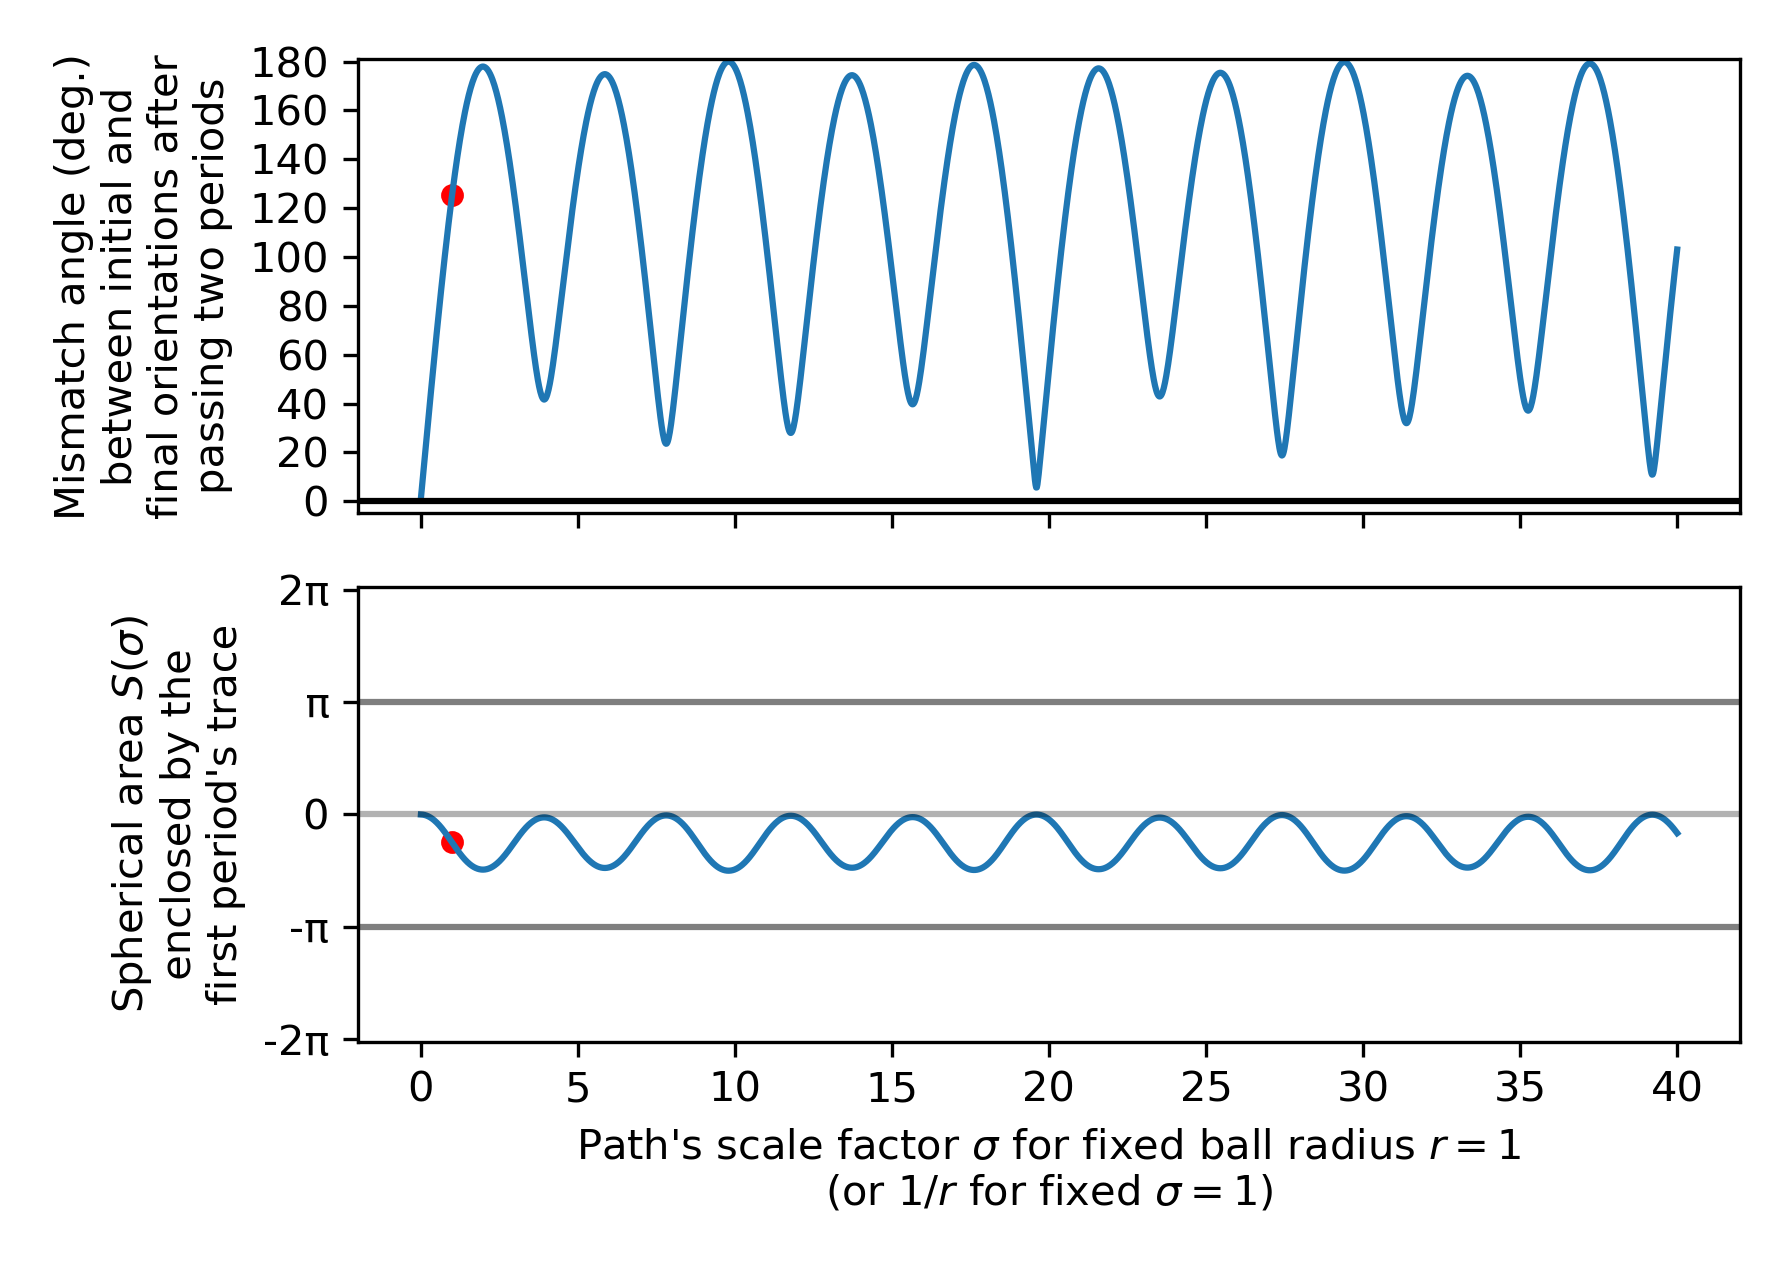
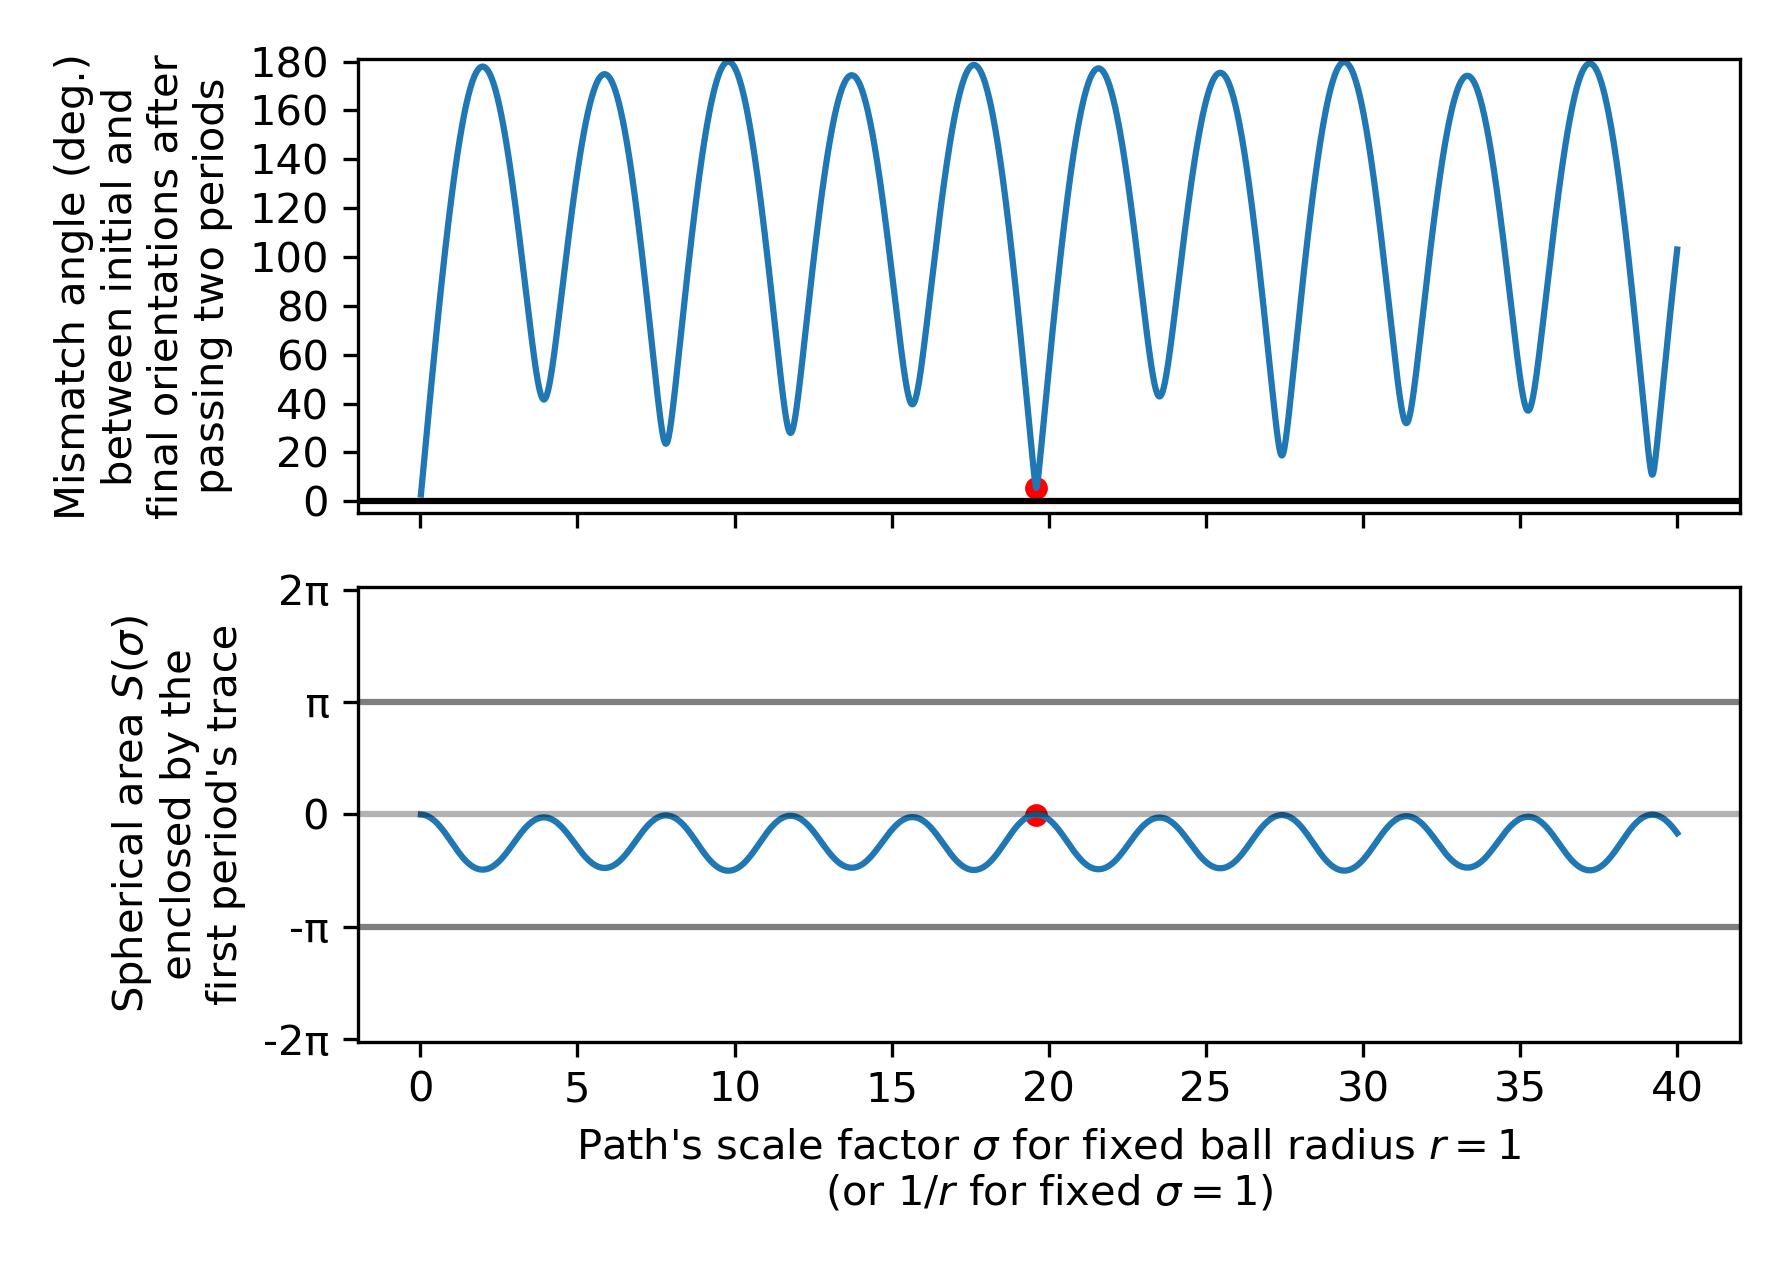
Refactor. Make plots for SI figures. Plot areas for penannular proof.

Changed region(s): [[0.5546, 0.3671, 0.5854, 0.3976], [0.2465, 0.6424, 0.2773, 0.6729], [0.2465, 0.1529, 0.2773, 0.1835]]

diff --git a/existence-testing.py b/existence-testing.py
@@ -284,9 +284,73 @@ def make_zigzag_kinked_asymm(zigzag_edge_length_without_kink=np.pi / 2,
     input_path[:, 1] = input_path[:, 1] - input_path[0, 1]
     return input_path, np.array(tips)
 
-def make_zigzag_with_smoothed_corner(zigzag_edge_length_without_kink=np.pi / 2,
+def add_arc(center, start_angle, end_angle, radius, npoints):
+    angles = np.linspace(start_angle, end_angle, npoints)
+    xs = radius * np.cos(angles)
+    ys = radius * np.sin(angles)
+    return center + np.stack((xs, ys)).T
+
+def make_zigzag_with_smoothed_corner(zigzag_edge_length_without_smoothing=np.pi / 2,
                         zigzag_corner_angle=np.pi / 4,
-                        radius_of_curvature=np.pi / 10):
+                        radius_of_curvature=0.02,
+                                     Ns=3, halfarc_segments_number=15):
+    '''Makes an zigzag whose corners are smoothed by a given radius of curvature.
+    It consists of two straight lines and three arcs.'''
+
+    # add first flat arc segment
+    arc_angle_span = np.pi/2 - zigzag_corner_angle/2
+    center = np.array([0,
+                       -1 * radius_of_curvature / np.cos(arc_angle_span)])
+    input_path = add_arc(center, start_angle=np.pi/2, end_angle=np.pi/2 - arc_angle_span,
+                         radius=radius_of_curvature, npoints=halfarc_segments_number)
+
+    # add first straight segment
+    length_of_straight_segment = zigzag_edge_length_without_smoothing - 2 * radius_of_curvature * np.tan(arc_angle_span)
+    startpoint = input_path[-1, :]
+    new_section = add_interval(startpoint, angle=-1 * (np.pi / 2 - zigzag_corner_angle / 2),
+                               length=length_of_straight_segment, Ns=Ns)
+    input_path = np.concatenate((input_path, new_section[1:]), axis=0)
+
+    # Add middle arc
+    center = np.array([zigzag_edge_length_without_smoothing * np.sin(zigzag_corner_angle / 2),
+                       -1 * zigzag_edge_length_without_smoothing * np.cos(zigzag_corner_angle / 2) +
+                                                                        radius_of_curvature / np.cos(arc_angle_span)])
+    new_section = add_arc(center, start_angle=-np.pi/2 - arc_angle_span, end_angle=-np.pi/2 + arc_angle_span,
+                         radius=radius_of_curvature, npoints=halfarc_segments_number * 2)
+    input_path = np.concatenate((input_path, new_section[1:]), axis=0)
+
+    # add first straight segment
+    length_of_straight_segment = zigzag_edge_length_without_smoothing - 2 * radius_of_curvature * np.tan(arc_angle_span)
+    startpoint = input_path[-1, :]
+    new_section = add_interval(startpoint, angle=np.pi / 2 - zigzag_corner_angle / 2,
+                               length=length_of_straight_segment, Ns=Ns)
+    input_path = np.concatenate((input_path, new_section[1:]), axis=0)
+
+    # add last flat arc segment
+    arc_angle_span = np.pi/2 - zigzag_corner_angle/2
+    center = np.array([zigzag_edge_length_without_smoothing * np.sin(zigzag_corner_angle / 2) * 2,
+                       -1 * radius_of_curvature / np.cos(arc_angle_span)])
+    new_section = add_arc(center, start_angle=np.pi/2 + arc_angle_span, end_angle=np.pi/2,
+                         radius=radius_of_curvature, npoints=halfarc_segments_number)
+    input_path = np.concatenate((input_path, new_section[1:]), axis=0)
+
+    # input_path = np.array([[0, 0]])
+
+    # angles = [-1 * (np.pi / 2 - zigzag_corner_angle / 2),
+    #           np.pi / 2 - zigzag_corner_angle / 2,]
+    # lengths = [length_of_straight_segment] * 2
+    # for i, angle in enumerate(angles):
+    #     startpoint = input_path[-1, :]
+    #     new_section = add_interval(startpoint, angle, lengths[i], Ns=Ns)
+    #     input_path = np.concatenate((input_path, new_section[1:]), axis=0)
+    #
+    # input_path[:, 1] = input_path[:, 1] - input_path[0, 1]
+    return input_path
+
+# input_path = make_zigzag_with_smoothed_corner()
+# plt.plot(input_path[:, 0], input_path[:, 1], 'o-', alpha=0.3)
+# plt.axis('equal')
+# plt.show()
 
 # def make_zigzag2(a):
 #     beta = np.pi/8
@@ -374,6 +438,8 @@ def select_path_by_path_type(path_parameter, path_type):
         input_path_single_section, tips = make_zigzag_kinked(kink_angle_1=path_parameter, kink_angle_2=path_parameter*4)
     elif path_type == 'zigzag_kinked_asymmetric':
         input_path_single_section, tips = make_zigzag_kinked_asymm(asymmetry=path_parameter)
+    elif path_type == 'zigzag_smoothed':
+        input_path_single_section = make_zigzag_with_smoothed_corner(radius_of_curvature=path_parameter)
     return input_path_single_section
 
 
@@ -446,7 +512,9 @@ def test_trajectoid_existence(path_type='brownian', path_for_figs='examples/brow
         fig.savefig(path_for_figs + f'/{path_type}_path.png', dpi=300)
         plt.show()
 
-        plot_spherical_trace_with_color_along_the_trace(input_path_0, input_path_single_section, forced_best_scale)
+        plot_spherical_trace_with_color_along_the_trace(upsample_path(input_path_0, by_factor=trace_upsample_factor),
+                                                        upsample_path(input_path_single_section, by_factor=trace_upsample_factor),
+                                                        forced_best_scale)
         mlab.show()
 
     sweeped_scales, mismatch_angles = mismatches_for_all_scales(input_path_0, minscale=minscale, maxscale=maxscale, nframes=nframes)
@@ -487,7 +555,9 @@ def test_trajectoid_existence(path_type='brownian', path_for_figs='examples/brow
         ax_area = fig.add_subplot(gs1[2, :])
 
         # Plot flat path with color along the path
-        plot_flat_path_with_color(input_path_0, input_path_single_section, ax_path)
+        plot_flat_path_with_color(upsample_path(input_path_0, by_factor=trace_upsample_factor),
+                                  upsample_path(input_path_single_section, by_factor=trace_upsample_factor),
+                                  ax_path)
         # plot circle showing relative diameter of the sphere
         circle_rad = 1 / best_scale
         if plot_solution:
@@ -630,10 +700,8 @@ def animate_scale_sweep(path_type='brownian', path_for_frames='examples/brownian
             point_here = sphere_trace_single_section[index_to_plot]
             mlab.points3d(point_here[0], point_here[1], point_here[2], scale_factor=point_radius, color=colors_of_trace_points[i])
         sphere_trace_full = trace_on_sphere(scale_to_plot * input_path_0, kx=1, ky=1)
-        point_here = sphere_trace_full[-1]
-        mlab.points3d(point_here[0], point_here[1], point_here[2], scale_factor=point_radius, color=(0, 0, 0))
-        point_here = sphere_trace_full[0]
-        mlab.points3d(point_here[0], point_here[1], point_here[2], scale_factor=point_radius, color=(0, 0, 0))
+        for point_here in [sphere_trace_full[-1], sphere_trace_full[0]]:
+            mlab.points3d(point_here[0], point_here[1], point_here[2], scale_factor=point_radius, color=(0, 0, 0))
 
         # img = mlab.screenshot()
         f = mlab.gcf()
@@ -739,17 +807,17 @@ if __name__ == '__main__':
     # test_trajectoid_existence(path_type='zigzag_tapered', path_for_figs='examples/zigzag_tapered/figures',
     #                           forced_best_scale=26.61504628916999, #46.777252049239166, #10.805702204321273,  # 4.240589475501186,
     #                           nframes=2000,
-    #                           maxscale=60,#70,
+    #                           maxscale=28,#70,
     #                           figsizefactor=0.85,
-    #                           circle_center=[-1.7, -0.6],
+    #                           circle_center=[1.2, -0.8],
     #                           circlealpha=1,
     #                           plot_solution=True,
     #                           range_for_searching_the_roots='auto',  #(10.6, 10.9),
-    #                           path_parameter=0.05
+    #                           path_parameter=0.1
     #                           )
 
     # test_trajectoid_existence(path_type='zigzag_kinked', path_for_figs='examples/zigzag_kinked/figures',
-    #                           forced_best_scale=1, #46.777252049239166, #10.805702204321273,  # 4.240589475501186,
+    #                           forced_best_scale=19.6017, #46.777252049239166, #10.805702204321273,  # 4.240589475501186,
     #                           nframes=2000,
     #                           maxscale=40,#70,
     #                           figsizefactor=0.85,
@@ -760,17 +828,17 @@ if __name__ == '__main__':
     #                           path_parameter=0.1
     #                           )
 
-    # test_trajectoid_existence(path_type='zigzag_kinked_asymmetric', path_for_figs='examples/zigzag_kinked_asymmetric/figures',
-    #                           forced_best_scale=1, #46.777252049239166, #10.805702204321273,  # 4.240589475501186,
-    #                           nframes=2000,
-    #                           maxscale=120,#70,
-    #                           figsizefactor=0.85,
-    #                           circle_center=[-1.7, -0.6],
-    #                           circlealpha=1,
-    #                           plot_solution=True,
-    #                           range_for_searching_the_roots='auto',  #(10.6, 10.9),
-    #                           path_parameter=0.6
-    #                           )
+    test_trajectoid_existence(path_type='zigzag_kinked_asymmetric', path_for_figs='examples/zigzag_kinked_asymmetric/figures',
+                              forced_best_scale=21.012723684811053, #46.777252049239166, #10.805702204321273,  # 4.240589475501186,
+                              nframes=2000,
+                              maxscale=28,#70,
+                              figsizefactor=0.85,
+                              circle_center=[1.05, -0.95],
+                              circlealpha=1,
+                              plot_solution=True,
+                              range_for_searching_the_roots='auto',  #(10.6, 10.9),
+                              path_parameter=0.370
+                              )
 
     # # Animating the path parameter sweep
     # power_here = 3
@@ -805,23 +873,40 @@ if __name__ == '__main__':
     #                               fig_title='Declination of first kink arm, rad: '
     #                               )
 
-    # Animating the path parameter sweep
-    power_here = 3
-    for frame_id, path_parameter in enumerate(np.linspace((0.08)**(1/power_here), (0.6)**(1/power_here), 80)**power_here):
-        test_trajectoid_existence(path_type='zigzag_kinked_asymmetric', path_for_figs='examples/zigzag_kinked_asymmetric/figures',
-                                  forced_best_scale=False, #46.777252049239166, #10.805702204321273,  # 4.240589475501186,
-                                  nframes=6000,
-                                  maxscale=120,#70,
-                                  figsizefactor=0.85,
-                                  circle_center=[1.3, -0.8],
-                                  circlealpha=1,
-                                  plot_solution=True,
-                                  range_for_searching_the_roots='auto',  #(10.6, 10.9),
-                                  path_parameter=path_parameter,
-                                  path_for_united_fig=f'examples/zigzag_kinked_asymmetric/figures/frames_paramsweep/{frame_id:06d}.png',
-                                  fig_title='Asymmetry: ',
-                                  trace_upsample_factor=300
-                                  )
+    # # Animating the path parameter sweep
+    # power_here = 3
+    # for frame_id, path_parameter in enumerate(np.linspace((0.08)**(1/power_here), (0.6)**(1/power_here), 80)**power_here):
+    #     test_trajectoid_existence(path_type='zigzag_kinked_asymmetric', path_for_figs='examples/zigzag_kinked_asymmetric/figures',
+    #                               forced_best_scale=False, #46.777252049239166, #10.805702204321273,  # 4.240589475501186,
+    #                               nframes=6000,
+    #                               maxscale=120,#70,
+    #                               figsizefactor=0.85,
+    #                               circle_center=[1.3, -0.8],
+    #                               circlealpha=1,
+    #                               plot_solution=True,
+    #                               range_for_searching_the_roots='auto',  #(10.6, 10.9),
+    #                               path_parameter=path_parameter,
+    #                               path_for_united_fig=f'examples/zigzag_kinked_asymmetric/figures/frames_paramsweep/{frame_id:06d}.png',
+    #                               fig_title='Asymmetry: ',
+    #                               trace_upsample_factor=300
+    #                               )
+
+    # # Animating the path parameter sweep
+    # power_here = 3
+    # for frame_id, path_parameter in enumerate(np.linspace((0.03)**(1/power_here), (0.25)**(1/power_here), 80)**power_here):
+    #     test_trajectoid_existence(path_type='zigzag_smoothed', path_for_figs='examples/zigzag_smoothed/figures',
+    #                               forced_best_scale=False, #46.777252049239166, #10.805702204321273,  # 4.240589475501186,
+    #                               nframes=800,
+    #                               maxscale=45,#70,
+    #                               figsizefactor=0.85,
+    #                               circle_center=[1.202, -0.95],
+    #                               circlealpha=1,
+    #                               plot_solution=True,
+    #                               range_for_searching_the_roots='auto',  #(10.6, 10.9),
+    #                               path_parameter=path_parameter,
+    #                               path_for_united_fig=f'examples/zigzag_smoothed/figures/frames_paramsweep/{frame_id:06d}.png',
+    #                               fig_title='Corner curvature radius: '
+    #                               )
 
     ### Scale sweep animations
     # animate_scale_sweep(path_type='zigzag_tapered', path_for_frames='examples/zigzag_tapered/figures/frames_scalesweep',
@@ -829,7 +914,7 @@ if __name__ == '__main__':
     #                     plot_solution=True, range_for_searching_the_roots='auto', path_parameter=0.1,
     #                     nframes=200, indices_to_plot = [3, 7])
 
-    # animate_scale_sweep(path_type='zigzag', path_for_frames='examples/zigzag_1/figures/frames_scalesweep',
-    #                     npoints=700, maxscale=10, figsizefactor=0.85, circle_center=[1.3, -0.8], circlealpha=1,
-    #                     plot_solution=True, range_for_searching_the_roots='auto', path_parameter=0.1,
-    #                     nframes=200, indices_to_plot = [7, 21], spherical_trace_upsample_factor=10)
+    animate_scale_sweep(path_type='zigzag', path_for_frames='examples/zigzag_1/figures/frames_scalesweep',
+                        npoints=700, maxscale=10, figsizefactor=0.85, circle_center=[1.3, -0.8], circlealpha=1,
+                        plot_solution=True, range_for_searching_the_roots='auto', path_parameter=0.1,
+                        nframes=200, indices_to_plot = [7, 21], spherical_trace_upsample_factor=10)

diff --git a/penannular_proof.py b/penannular_proof.py
@@ -80,6 +80,42 @@ def align_view(scene):
     scene.scene.camera.clipping_range = [3.573025799931812, 10.592960367304393]
     scene.scene.camera.compute_view_plane_normal()
 
+def plot_gb_areas(ax, sweeped_scales, gb_areas, mark_one_scale, scale_to_mark):
+
+    ## This code injects the sampled point at the solution_scale. Otherwise the root can be not at one of sampled points
+    # ii = np.searchsorted(sweeped_scales, solution_scale)
+    # sweeped_scales = np.insert(sweeped_scales, ii, solution_scale)
+    # mismatch_angles = np.insert(mismatch_angles, ii, np.pi * np.sign(interp1d(sweeped_scales, gb_areas)(solution_scale)))
+
+    ax.plot(sweeped_scales, gb_areas)
+    ax.axhline(y=np.pi, color='black', alpha=0.5)
+    ax.axhline(y=0, color='black', alpha=0.3)
+    ax.axhline(y=-1 * np.pi, color='black', alpha=0.5)
+    if mark_one_scale:
+        # ax.scatter([solution_scale], [np.pi * np.sign(interp1d(sweeped_scales, gb_areas)(solution_scale))], s=20, color='red')
+        value_at_scale_to_mark = interpolate.interp1d(sweeped_scales, gb_areas)(scale_to_mark)
+        ax.scatter([scale_to_mark], [value_at_scale_to_mark], s=20, color='red')
+    ax.set_yticks([-2 * np.pi, -np.pi, 0, np.pi, 2 * np.pi])
+    ax.set_yticklabels(['-2π', '-π', '0', 'π', '2π'])
+    ax.set_ylim(-np.pi * 2 * 1.01, np.pi * 2 * 1.01)
+    ax.set_ylabel('Area $S(\sigma)$')
+    ax.set_xlabel('Path\'s scale factor $\sigma$')
+
+plotscalefac = 0.8
+fig, ax = plt.subplots(figsize=(5*plotscalefac,2*plotscalefac))
+input_path_single_section = make_path(xlen=3.81, r=1.23, Npath=150, do_double=False)
+sweeped_scales, gb_areas = gb_areas_for_all_scales(input_path_single_section,
+                                                   minscale=0.01,
+                                                   maxscale=1.16,
+                                                   nframes=300)
+plot_gb_areas(ax, sweeped_scales, gb_areas, mark_one_scale=True,
+              scale_to_mark=1)
+plt.ylim(-0.01, 4)
+plt.tight_layout()
+fig.savefig('examples/penannular_proof/areas.png', dpi=300)
+plt.show()
+
+
 # input_path_symm = make_path(xlen=3.81, r=1.23, Npath=150, shift=0, do_double=False) * best_scale
 # plt.plot(input_path_symm[:, 0], input_path_symm[:, 1], '--', color='C2', label='Symmetric')
 # plt.scatter(input_path_symm[0, 0], input_path_symm[0, 1], color='black')
@@ -215,9 +251,10 @@ def make_animation_of_rotational_symmetry():
             for x in [object1]:
                 x.remove()
 
-sweeped_scales, mismatch_angles = mismatches_for_all_scales()
-plt.plot(sweeped_scales, np.abs(mismatch_angles))
-plt.show()
+# sweeped_scales, mismatch_angles = mismatches_for_all_scales()
+# plt.plot(sweeped_scales, np.abs(mismatch_angles))
+# plt.show()
+
 
 # make_animation_of_rotational_symmetry()
 

diff --git a/README.md b/README.md
@@ -15,6 +15,7 @@ Clone (checkout) this repository after installing these dependencies:
 
 ## Running
 
+### Computing the trajectoid shape from a path
 Example usage with loading input path from an image:
 ```
 from compute-trajectoids import *
@@ -30,6 +31,12 @@ This will compute the same number of "cutting boxes" as the number of points in 
 these boxes as `.obj` files into the `folder_for_meshes` directory. For obtaining the final trajetroid mesh,
 these boxes must be subtracted from a sphere of radius `R` greater than the core radius `r=1`.
 
+### Testing whether a two-period trajectoid exists for a various path types
+
+See `existence_testing.py`. Uncomment the parts of `main` that check existence for the path type you are
+interested in and run. This script also contains functions for making animations shown in the Movie 3 of the paper.
+
+<!---
 ## Citation
 If you use this code, please cite our paper:
 ```
@@ -40,3 +47,4 @@ If you use this code, please cite our paper:
   year={2022}
 }
 ```
+-->
